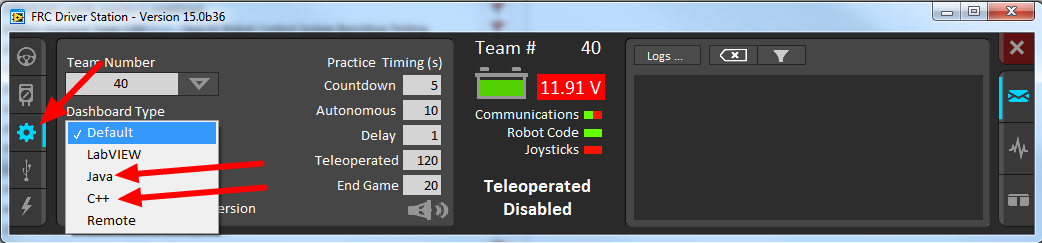
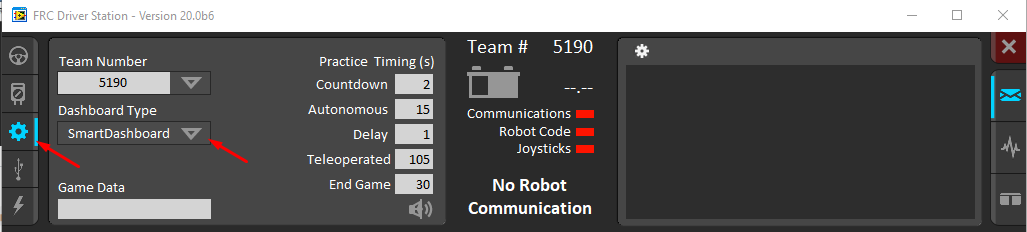
Fix SmartDashboard selection documentation

diff --git a/source/docs/software/wpilib-tools/smartdashboard/smartdashboard-intro.rst b/source/docs/software/wpilib-tools/smartdashboard/smartdashboard-intro.rst
@@ -18,7 +18,7 @@ Installing the SmartDashboard
 
 .. image:: images/smartdashboard-intro-2.png
 
-The SmartDashboard is now packaged with the C++ and Java language updates and can be launched directly from the Driver Station by selecting the **Java** or **C++** buttons on the Setup tab.
+The SmartDashboard is now packaged with the C++ and Java language updates and can be launched directly from the Driver Station by selecting the **SmartDashboard** button on the Setup tab.
 
 .. note:: If using the Classmate PC or other PC where the DS is run from a separate account from the C++\Java tools install (e.g. Driver and Developer) the buttons shown above may not work.
 
